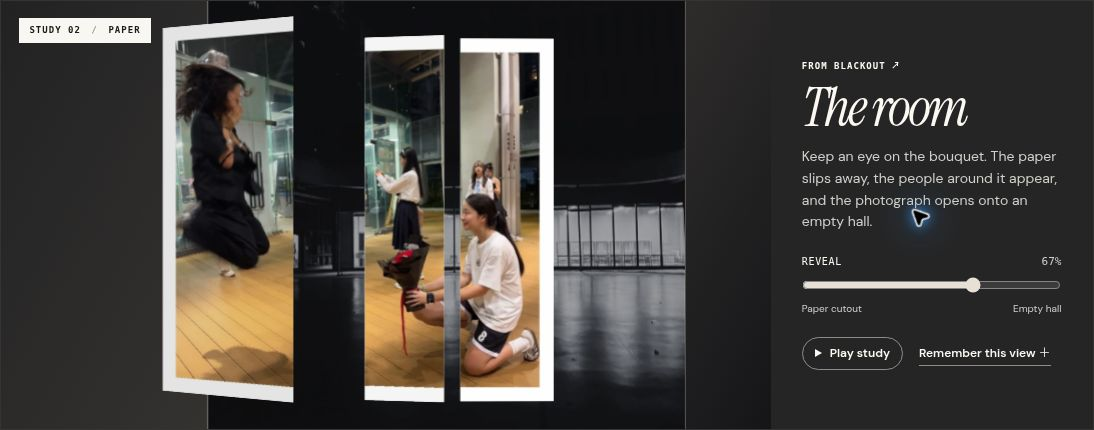
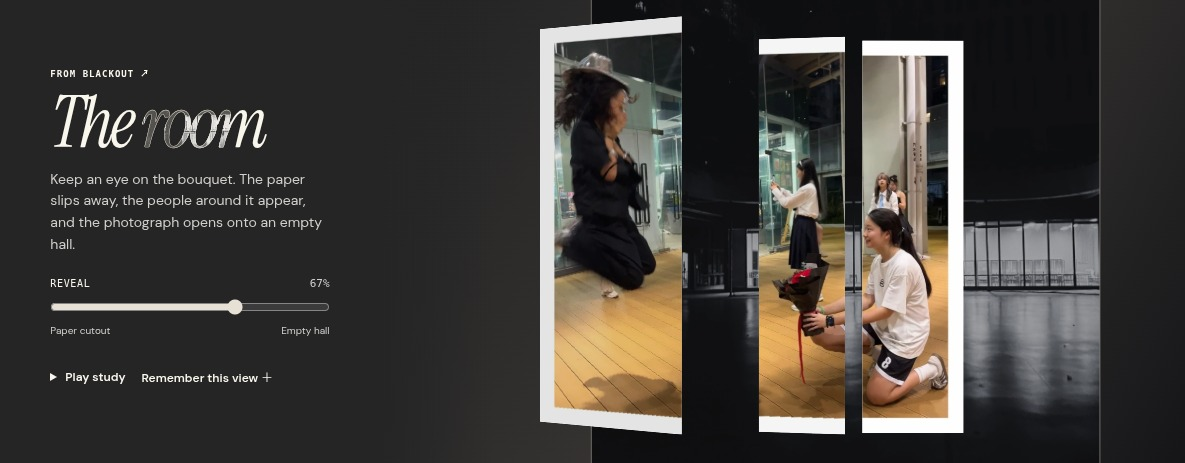
Save screening stills from the public and offline editions

diff --git a/README.md b/README.md
@@ -2,6 +2,8 @@
 
 [Open the portfolio](https://carryistic.vercel.app/) · [Offline screening kit](https://drive.google.com/drive/folders/1qjbQmd1ob6WyTthBDtWGXcai26FL3Zgz) · [Google Drive reference library](https://drive.google.com/drive/folders/1fbso1aN0VT27E0wNxjwqrTS4eapcjhkn)
 
+[![The hand-drawn texture of the Afterimage title crosses Carry’s blue and orange oil portrait.](handoff/entrance.jpg)](https://carryistic.vercel.app/)
+
 *Afterimage* opens on a sideways glance. The photograph becomes a line drawing, then an oil painting. In *Fly*, four poses break free of the waterfront and land as four blocks of color. The blue block opens on the red cap. Under its printed echoes are a camera frame and two hands holding records. One record label turns into the gold opening of a sculpture. The film ends in the studio with the basketball portrait and a number 30 jersey. These connections are the director’s reading of Carry’s published work.
 
 After the 22-second film, play a study or drag through it by hand. *The fall* lifts four waterfront poses into relief. In *The room*, watch the bouquet as a paper cutout gives way to a crowded photograph. Three hinged strips open onto an empty hall. *The orbit* follows the camera through 24 photographed views of the sculpture. All three studies play on devices without WebGL. [Open The room](https://carryistic.vercel.app/#room-study) · [See how the photographs align](direction/artist-reading.md#a-room-held-together-by-a-bouquet)
